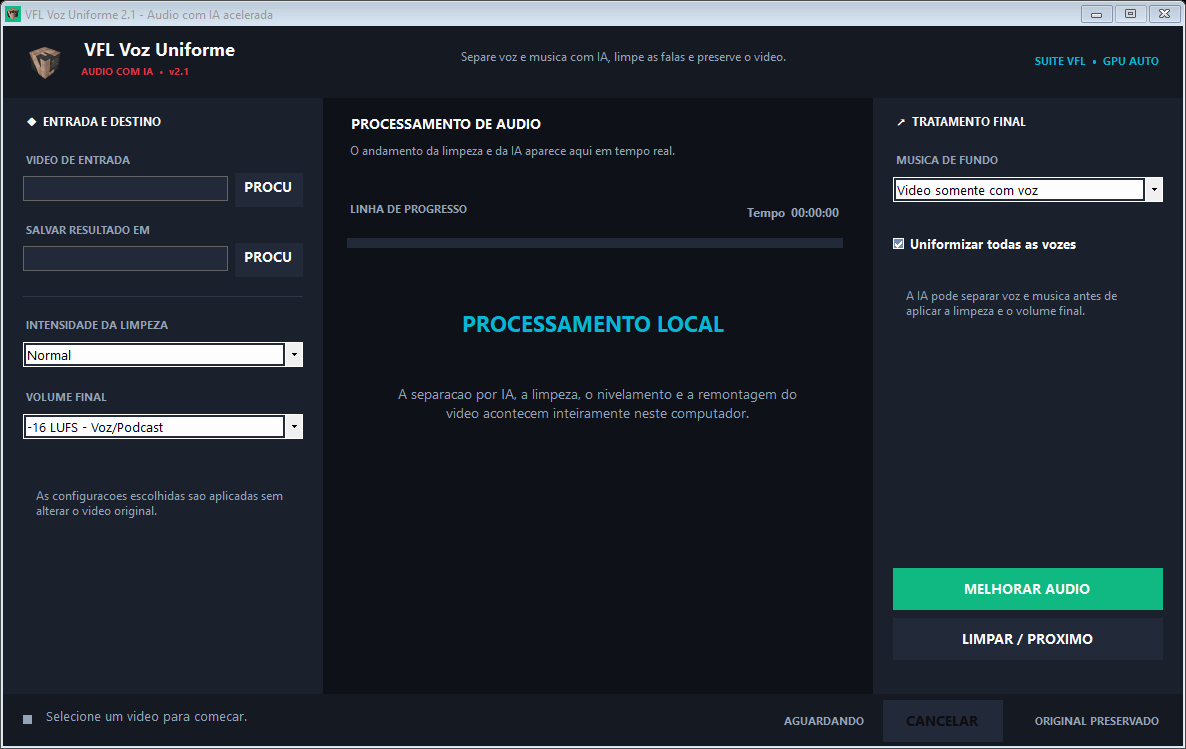
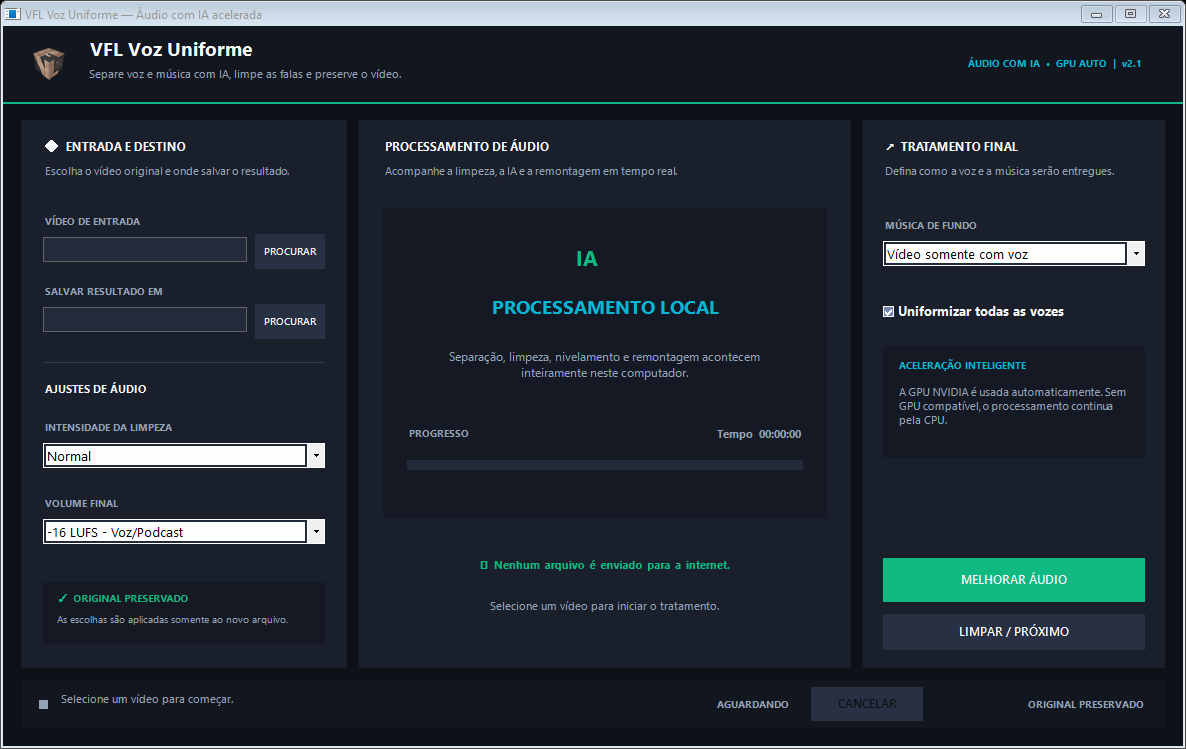
Padroniza interface do Voz Uniforme com a suite VFL

diff --git a/src/VozUniforme.cs b/src/VozUniforme.cs
@@ -40,15 +40,18 @@ namespace VozUniformeApp
     internal sealed class MainForm : Form
     {
         private readonly Color colorWindow = Color.FromArgb(14, 17, 23);
-        private readonly Color colorHeader = Color.FromArgb(21, 25, 34);
-        private readonly Color colorCard = Color.FromArgb(26, 32, 44);
-        private readonly Color colorInput = Color.FromArgb(34, 41, 56);
-        private readonly Color colorSecondary = Color.FromArgb(34, 41, 56);
-        private readonly Color colorBorder = Color.FromArgb(45, 55, 72);
+        private readonly Color colorHeader = Color.FromArgb(18, 22, 30);
+        private readonly Color colorCard = Color.FromArgb(25, 31, 43);
+        private readonly Color colorSurface = Color.FromArgb(20, 25, 35);
+        private readonly Color colorInput = Color.FromArgb(35, 43, 59);
+        private readonly Color colorSecondary = Color.FromArgb(40, 49, 67);
+        private readonly Color colorBorder = Color.FromArgb(48, 59, 78);
         private readonly Color colorText = Color.FromArgb(248, 250, 252);
         private readonly Color colorMuted = Color.FromArgb(148, 163, 184);
-        private readonly Color colorAccent = Color.FromArgb(226, 50, 68);
+        private readonly Color colorAccent = Color.FromArgb(16, 185, 129);
+        private readonly Color colorCyan = Color.FromArgb(6, 182, 212);
         private readonly Color colorGreen = Color.FromArgb(16, 185, 129);
+        private readonly Color colorDanger = Color.FromArgb(239, 68, 68);
         private readonly Color colorOrange = Color.FromArgb(245, 166, 35);
 
         private readonly string projectDir;
@@ -107,7 +110,7 @@ namespace VozUniformeApp
 
         private void BuildInterface()
         {
-            Text = "VFL Voz Uniforme 2.1 - Audio com IA acelerada";
+            Text = "VFL Voz Uniforme — Áudio com IA acelerada";
             try { Icon = Icon.ExtractAssociatedIcon(Application.ExecutablePath); } catch { }
             ClientSize = new Size(1180, 720);
             FormBorderStyle = FormBorderStyle.FixedSingle;
@@ -118,64 +121,79 @@ namespace VozUniformeApp
             ForeColor = colorText;
             Font = new Font("Segoe UI", 10f);
 
-            Panel header = new Panel { Location = new Point(0, 0), Size = new Size(1180, 72), BackColor = colorHeader };
+            Panel header = new Panel { Location = new Point(0, 0), Size = new Size(1180, 78), BackColor = colorHeader };
             Controls.Add(header);
             string logoPath = Path.Combine(projectDir, "assets", "vfl-suite-logo.png");
             if (File.Exists(logoPath))
-                header.Controls.Add(new PictureBox { Location = new Point(18, 10), Size = new Size(48, 52), Image = Image.FromFile(logoPath), SizeMode = PictureBoxSizeMode.Zoom });
+                header.Controls.Add(new PictureBox { Location = new Point(22, 13), Size = new Size(48, 48), Image = Image.FromFile(logoPath), SizeMode = PictureBoxSizeMode.Zoom });
             else
             {
-                Panel logo = new Panel { Location = new Point(18, 10), Size = new Size(48, 52), BackColor = colorAccent };
+                Panel logo = new Panel { Location = new Point(22, 13), Size = new Size(48, 48), BackColor = colorAccent };
                 logo.Controls.Add(new Label { Text = "V", Font = new Font("Segoe UI", 15f, FontStyle.Bold), ForeColor = Color.White, TextAlign = ContentAlignment.MiddleCenter, Dock = DockStyle.Fill });
+                RoundControl(logo, 8);
                 header.Controls.Add(logo);
             }
-            header.Controls.Add(MakeLabel("VFL Voz Uniforme", new Point(76, 10), new Size(360, 30), colorText, 13f, FontStyle.Bold));
-            header.Controls.Add(MakeLabel("AUDIO COM IA  •  v2.1", new Point(76, 39), new Size(250, 19), colorAccent, 7f, FontStyle.Bold));
-            header.Controls.Add(MakeLabel("Separe voz e musica com IA, limpe as falas e preserve o video.", new Point(455, 23), new Size(500, 25), colorMuted, 9f, FontStyle.Regular));
-            Label version = MakeLabel("SUITE VFL  •  GPU AUTO", new Point(980, 22), new Size(180, 25), Color.FromArgb(6, 182, 212), 8f, FontStyle.Bold);
+            header.Controls.Add(MakeLabel("VFL Voz Uniforme", new Point(84, 10), new Size(430, 30), colorText, 14f, FontStyle.Bold));
+            header.Controls.Add(MakeLabel("Separe voz e música com IA, limpe as falas e preserve o vídeo.", new Point(84, 40), new Size(650, 22), colorMuted, 8.5f, FontStyle.Regular));
+            Label version = MakeLabel("ÁUDIO COM IA  •  GPU AUTO  |  v2.1", new Point(850, 25), new Size(290, 24), colorCyan, 7.5f, FontStyle.Bold);
             version.TextAlign = ContentAlignment.MiddleRight;
             header.Controls.Add(version);
+            header.Controls.Add(new Panel { Location = new Point(0, 76), Size = new Size(1180, 2), BackColor = colorAccent });
 
-            Panel left = new Panel { Location = new Point(0, 72), Size = new Size(320, 596), BackColor = colorCard };
+            Panel left = MakeCard(new Rectangle(18, 94, 326, 548));
             Controls.Add(left);
-            left.Controls.Add(MakeLabel("◆  ENTRADA E DESTINO", new Point(20, 16), new Size(270, 24), colorText, 9f, FontStyle.Bold));
-            left.Controls.Add(MakeLabel("VIDEO DE ENTRADA", new Point(20, 55), new Size(270, 20), colorMuted, 8f, FontStyle.Bold));
-            inputBox = new TextBox { Location = new Point(20, 78), Size = new Size(205, 28), BackColor = colorInput, ForeColor = colorText, BorderStyle = BorderStyle.FixedSingle };
+            left.Controls.Add(MakeLabel("◆  ENTRADA E DESTINO", new Point(22, 18), new Size(280, 24), colorText, 9f, FontStyle.Bold));
+            left.Controls.Add(MakeLabel("Escolha o vídeo original e onde salvar o resultado.", new Point(22, 44), new Size(280, 34), colorMuted, 8f, FontStyle.Regular));
+            left.Controls.Add(MakeLabel("VÍDEO DE ENTRADA", new Point(22, 94), new Size(280, 20), colorMuted, 7.5f, FontStyle.Bold));
+            inputBox = new TextBox { Location = new Point(22, 117), Size = new Size(204, 29), BackColor = colorInput, ForeColor = colorText, BorderStyle = BorderStyle.FixedSingle };
             RoundControl(inputBox, 6);
-            inputButton = MakeButton("PROCURAR", new Point(232, 75), 68, colorSecondary); inputButton.Height = 34; left.Controls.Add(inputBox); left.Controls.Add(inputButton);
-            left.Controls.Add(MakeLabel("SALVAR RESULTADO EM", new Point(20, 125), new Size(270, 20), colorMuted, 8f, FontStyle.Bold));
-            outputBox = new TextBox { Location = new Point(20, 148), Size = new Size(205, 28), BackColor = colorInput, ForeColor = colorText, BorderStyle = BorderStyle.FixedSingle };
+            inputButton = MakeButton("PROCURAR", new Point(234, 114), 70, colorSecondary); inputButton.Height = 35; inputButton.Font = new Font("Segoe UI Semibold", 7.5f); left.Controls.Add(inputBox); left.Controls.Add(inputButton);
+            left.Controls.Add(MakeLabel("SALVAR RESULTADO EM", new Point(22, 164), new Size(280, 20), colorMuted, 7.5f, FontStyle.Bold));
+            outputBox = new TextBox { Location = new Point(22, 187), Size = new Size(204, 29), BackColor = colorInput, ForeColor = colorText, BorderStyle = BorderStyle.FixedSingle };
             RoundControl(outputBox, 6);
-            outputButton = MakeButton("PROCURAR", new Point(232, 145), 68, colorSecondary); outputButton.Height = 34; left.Controls.Add(outputBox); left.Controls.Add(outputButton);
-            left.Controls.Add(new Panel { Location = new Point(20, 198), Size = new Size(280, 1), BackColor = colorBorder });
-            left.Controls.Add(MakeLabel("INTENSIDADE DA LIMPEZA", new Point(20, 220), new Size(280, 20), colorMuted, 8f, FontStyle.Bold));
-            profileBox = MakeCombo(new Point(20, 244), new Size(280, 30), new[] { "Leve", "Normal", "Forte" }, 1); left.Controls.Add(profileBox);
-            left.Controls.Add(MakeLabel("VOLUME FINAL", new Point(20, 292), new Size(280, 20), colorMuted, 8f, FontStyle.Bold));
-            lufsBox = MakeCombo(new Point(20, 316), new Size(280, 30), new[] { "-14 LUFS - YouTube", "-16 LUFS - Voz/Podcast", "-18 LUFS - Suave" }, 1); left.Controls.Add(lufsBox);
-            left.Controls.Add(MakeLabel("As configuracoes escolhidas sao aplicadas sem alterar o video original.", new Point(30, 390), new Size(260, 80), colorMuted, 8.5f, FontStyle.Regular));
+            outputButton = MakeButton("PROCURAR", new Point(234, 184), 70, colorSecondary); outputButton.Height = 35; outputButton.Font = new Font("Segoe UI Semibold", 7.5f); left.Controls.Add(outputBox); left.Controls.Add(outputButton);
+            left.Controls.Add(new Panel { Location = new Point(22, 242), Size = new Size(282, 1), BackColor = colorBorder });
+            left.Controls.Add(MakeLabel("AJUSTES DE ÁUDIO", new Point(22, 262), new Size(280, 20), colorText, 8f, FontStyle.Bold));
+            left.Controls.Add(MakeLabel("INTENSIDADE DA LIMPEZA", new Point(22, 300), new Size(280, 20), colorMuted, 7.5f, FontStyle.Bold));
+            profileBox = MakeCombo(new Point(22, 323), new Size(282, 31), new[] { "Leve", "Normal", "Forte" }, 1); left.Controls.Add(profileBox);
+            left.Controls.Add(MakeLabel("VOLUME FINAL", new Point(22, 376), new Size(280, 20), colorMuted, 7.5f, FontStyle.Bold));
+            lufsBox = MakeCombo(new Point(22, 399), new Size(282, 31), new[] { "-14 LUFS - YouTube", "-16 LUFS - Voz/Podcast", "-18 LUFS - Suave" }, 1); left.Controls.Add(lufsBox);
+            Panel safeNote = new Panel { Location = new Point(22, 462), Size = new Size(282, 62), BackColor = colorSurface };
+            RoundControl(safeNote, 10);
+            safeNote.Controls.Add(MakeLabel("✓  ORIGINAL PRESERVADO", new Point(12, 9), new Size(255, 18), colorGreen, 7.5f, FontStyle.Bold));
+            safeNote.Controls.Add(MakeLabel("As escolhas são aplicadas somente ao novo arquivo.", new Point(12, 30), new Size(255, 24), colorMuted, 7.5f, FontStyle.Regular));
+            left.Controls.Add(safeNote);
 
-            Panel center = new Panel { Location = new Point(320, 72), Size = new Size(550, 596), BackColor = colorWindow };
+            Panel center = MakeCard(new Rectangle(356, 94, 492, 548));
             Controls.Add(center);
-            center.Controls.Add(MakeLabel("PROCESSAMENTO DE AUDIO", new Point(24, 16), new Size(300, 24), colorText, 10f, FontStyle.Bold));
-            center.Controls.Add(MakeLabel("O andamento da limpeza e da IA aparece aqui em tempo real.", new Point(24, 45), new Size(490, 24), colorMuted, 8.5f, FontStyle.Regular));
-            timeLabel = MakeLabel("Tempo  00:00:00", new Point(300, 102), new Size(220, 25), colorMuted, 9f, FontStyle.Bold); timeLabel.TextAlign = ContentAlignment.MiddleRight; center.Controls.Add(timeLabel);
-            center.Controls.Add(MakeLabel("LINHA DE PROGRESSO", new Point(24, 104), new Size(220, 22), colorMuted, 8f, FontStyle.Bold));
-            progressTrack = new Panel { Location = new Point(24, 140), Size = new Size(496, 10), BackColor = colorInput };
+            center.Controls.Add(MakeLabel("PROCESSAMENTO DE ÁUDIO", new Point(24, 18), new Size(300, 24), colorText, 9f, FontStyle.Bold));
+            center.Controls.Add(MakeLabel("Acompanhe a limpeza, a IA e a remontagem em tempo real.", new Point(24, 44), new Size(440, 24), colorMuted, 8f, FontStyle.Regular));
+            Panel stage = new Panel { Location = new Point(24, 88), Size = new Size(444, 310), BackColor = colorSurface };
+            RoundControl(stage, 14);
+            stage.Controls.Add(MakeLabel("IA", new Point(189, 34), new Size(66, 28), colorAccent, 16f, FontStyle.Bold));
+            Label centerMessage = MakeLabel("PROCESSAMENTO LOCAL", new Point(40, 82), new Size(364, 36), colorCyan, 14f, FontStyle.Bold); centerMessage.TextAlign = ContentAlignment.MiddleCenter; stage.Controls.Add(centerMessage);
+            Label centerHelp = MakeLabel("Separação, limpeza, nivelamento e remontagem acontecem inteiramente neste computador.", new Point(54, 126), new Size(336, 62), colorMuted, 9f, FontStyle.Regular); centerHelp.TextAlign = ContentAlignment.MiddleCenter; stage.Controls.Add(centerHelp);
+            stage.Controls.Add(MakeLabel("PROGRESSO", new Point(24, 218), new Size(130, 20), colorMuted, 7.5f, FontStyle.Bold));
+            timeLabel = MakeLabel("Tempo  00:00:00", new Point(210, 214), new Size(210, 24), colorMuted, 8.5f, FontStyle.Bold); timeLabel.TextAlign = ContentAlignment.MiddleRight; stage.Controls.Add(timeLabel);
+            progressTrack = new Panel { Location = new Point(24, 252), Size = new Size(396, 10), BackColor = colorInput };
             progressFill = new Panel { Location = new Point(0, 0), Size = new Size(0, 10), BackColor = colorGreen }; progressTrack.Controls.Add(progressFill); center.Controls.Add(progressTrack);
             RoundControl(progressTrack, 5);
-            Label centerMessage = MakeLabel("PROCESSAMENTO LOCAL", new Point(24, 205), new Size(496, 40), Color.FromArgb(6, 182, 212), 16f, FontStyle.Bold); centerMessage.TextAlign = ContentAlignment.MiddleCenter; center.Controls.Add(centerMessage);
-            Label centerHelp = MakeLabel("A separacao por IA, a limpeza, o nivelamento e a remontagem do video acontecem inteiramente neste computador.", new Point(70, 260), new Size(410, 90), colorMuted, 10f, FontStyle.Regular); centerHelp.TextAlign = ContentAlignment.MiddleCenter; center.Controls.Add(centerHelp);
+            stage.Controls.Add(progressTrack);
+            center.Controls.Add(stage);
+            Label privacy = MakeLabel("🔒  Nenhum arquivo é enviado para a internet.", new Point(24, 430), new Size(444, 30), colorGreen, 8.5f, FontStyle.Bold); privacy.TextAlign = ContentAlignment.MiddleCenter; center.Controls.Add(privacy);
+            Label ready = MakeLabel("Selecione um vídeo para iniciar o tratamento.", new Point(24, 468), new Size(444, 36), colorMuted, 8.5f, FontStyle.Regular); ready.TextAlign = ContentAlignment.MiddleCenter; center.Controls.Add(ready);
 
-            Panel right = new Panel { Location = new Point(870, 72), Size = new Size(310, 596), BackColor = colorCard };
+            Panel right = MakeCard(new Rectangle(860, 94, 302, 548));
             Controls.Add(right);
-            right.Controls.Add(MakeLabel("↗  TRATAMENTO FINAL", new Point(20, 16), new Size(270, 24), colorText, 9f, FontStyle.Bold));
-            right.Controls.Add(MakeLabel("MUSICA DE FUNDO", new Point(20, 55), new Size(270, 20), colorMuted, 8f, FontStyle.Bold));
-            musicModeBox = MakeCombo(new Point(20, 79), new Size(270, 30), new[]
+            right.Controls.Add(MakeLabel("↗  TRATAMENTO FINAL", new Point(20, 18), new Size(262, 24), colorText, 9f, FontStyle.Bold));
+            right.Controls.Add(MakeLabel("Defina como a voz e a música serão entregues.", new Point(20, 44), new Size(262, 36), colorMuted, 8f, FontStyle.Regular));
+            right.Controls.Add(MakeLabel("MÚSICA DE FUNDO", new Point(20, 98), new Size(262, 20), colorMuted, 7.5f, FontStyle.Bold));
+            musicModeBox = MakeCombo(new Point(20, 121), new Size(262, 31), new[]
             {
-                "Video somente com voz",
-                "Manter musica (suave)",
-                "Deixar musica baixa - IA",
-                "Remover musica - IA"
+                "Vídeo somente com voz",
+                "Manter música (suave)",
+                "Deixar música baixa — IA",
+                "Remover música — IA"
             }, 0);
             musicModeBox.SelectedIndexChanged += delegate
             {
@@ -189,8 +207,8 @@ namespace VozUniformeApp
             uniformBox = new CheckBox
             {
                 Text = "Uniformizar todas as vozes",
-                Location = new Point(20, 132),
-                Size = new Size(270, 28),
+                Location = new Point(20, 178),
+                Size = new Size(262, 28),
                 Checked = true,
                 BackColor = colorCard,
                 ForeColor = colorText,
@@ -200,16 +218,20 @@ namespace VozUniformeApp
             };
             uniformBox.FlatAppearance.CheckedBackColor = colorAccent;
             right.Controls.Add(uniformBox);
-            right.Controls.Add(MakeLabel("A IA pode separar voz e musica antes de aplicar a limpeza e o volume final.", new Point(30, 190), new Size(250, 90), colorMuted, 8.5f, FontStyle.Regular));
-            startButton = MakeButton("MELHORAR AUDIO", new Point(20, 470), 270, colorGreen); right.Controls.Add(startButton);
-            clearButton = MakeButton("LIMPAR / PROXIMO", new Point(20, 520), 270, colorSecondary); right.Controls.Add(clearButton);
+            Panel aiNote = new Panel { Location = new Point(20, 226), Size = new Size(262, 112), BackColor = colorSurface };
+            RoundControl(aiNote, 10);
+            aiNote.Controls.Add(MakeLabel("ACELERAÇÃO INTELIGENTE", new Point(14, 12), new Size(234, 20), colorCyan, 7.5f, FontStyle.Bold));
+            aiNote.Controls.Add(MakeLabel("A GPU NVIDIA é usada automaticamente. Sem GPU compatível, o processamento continua pela CPU.", new Point(14, 38), new Size(234, 62), colorMuted, 8f, FontStyle.Regular));
+            right.Controls.Add(aiNote);
+            startButton = MakeButton("MELHORAR ÁUDIO", new Point(20, 438), 262, colorGreen); startButton.Height = 44; right.Controls.Add(startButton);
+            clearButton = MakeButton("LIMPAR / PRÓXIMO", new Point(20, 494), 262, colorSecondary); clearButton.Height = 36; right.Controls.Add(clearButton);
 
-            Panel footer = new Panel { Location = new Point(0, 668), Size = new Size(1180, 52), BackColor = colorHeader }; Controls.Add(footer);
-            statusDot = new Panel { Location = new Point(20, 21), Size = new Size(9, 9), BackColor = colorMuted }; footer.Controls.Add(statusDot);
-            statusLabel = MakeLabel("Selecione um video para comecar.", new Point(40, 13), new Size(690, 27), colorMuted, 9.5f, FontStyle.Regular); footer.Controls.Add(statusLabel);
-            statusBadge = MakeLabel("AGUARDANDO", new Point(735, 13), new Size(130, 27), colorMuted, 8f, FontStyle.Bold); statusBadge.TextAlign = ContentAlignment.MiddleRight; footer.Controls.Add(statusBadge);
-            cancelButton = MakeButton("CANCELAR", new Point(880, 6), 120, colorSecondary); cancelButton.Enabled = false; footer.Controls.Add(cancelButton);
-            Label original = MakeLabel("ORIGINAL PRESERVADO", new Point(1010, 13), new Size(150, 27), colorMuted, 8f, FontStyle.Bold); original.TextAlign = ContentAlignment.MiddleRight; footer.Controls.Add(original);
+            Panel footer = new Panel { Location = new Point(18, 654), Size = new Size(1144, 48), BackColor = colorHeader }; RoundControl(footer, 10); Controls.Add(footer);
+            statusDot = new Panel { Location = new Point(18, 20), Size = new Size(9, 9), BackColor = colorMuted }; RoundControl(statusDot, 5); footer.Controls.Add(statusDot);
+            statusLabel = MakeLabel("Selecione um vídeo para começar.", new Point(38, 11), new Size(620, 27), colorMuted, 8.5f, FontStyle.Regular); footer.Controls.Add(statusLabel);
+            statusBadge = MakeLabel("AGUARDANDO", new Point(650, 11), new Size(120, 27), colorMuted, 7.5f, FontStyle.Bold); statusBadge.TextAlign = ContentAlignment.MiddleRight; footer.Controls.Add(statusBadge);
+            cancelButton = MakeButton("CANCELAR", new Point(790, 7), 112, colorSecondary); cancelButton.Height = 34; cancelButton.Enabled = false; footer.Controls.Add(cancelButton);
+            Label original = MakeLabel("ORIGINAL PRESERVADO", new Point(920, 11), new Size(205, 27), colorMuted, 7.5f, FontStyle.Bold); original.TextAlign = ContentAlignment.MiddleRight; footer.Controls.Add(original);
 
             inputButton.Click += SelectInput;
             outputButton.Click += SelectOutput;
@@ -227,6 +249,13 @@ namespace VozUniformeApp
             return new Label { Text = text, Location = location, Size = size, ForeColor = color, Font = new Font("Segoe UI", fontSize, style) };
         }
 
+        private Panel MakeCard(Rectangle bounds)
+        {
+            Panel card = new Panel { Bounds = bounds, BackColor = colorCard };
+            RoundControl(card, 12);
+            return card;
+        }
+
         private Button MakeButton(string text, Point location, int width, Color backColor)
         {
             Button button = new Button
@@ -238,7 +267,7 @@ namespace VozUniformeApp
                 ForeColor = colorText,
                 FlatStyle = FlatStyle.Flat,
                 Cursor = Cursors.Hand,
-                Font = new Font("Segoe UI", 10f, FontStyle.Bold)
+                Font = new Font("Segoe UI Semibold", 9f, FontStyle.Bold)
             };
             button.FlatAppearance.BorderSize = 0;
             RoundControl(button, 10);
@@ -715,7 +744,7 @@ namespace VozUniformeApp
             stopwatch = null;
             timeLabel.Text = "Tempo  00:00:00";
             SetProgress(0);
-            SetStatus("Selecione um video para comecar.", "Idle");
+            SetStatus("Selecione um vídeo para começar.", "Idle");
             inputBox.Focus();
         }
 
@@ -746,7 +775,7 @@ namespace VozUniformeApp
             if (state == "Ready") SetStatusColors(colorAccent, "PRONTO");
             else if (state == "Processing") SetStatusColors(colorOrange, "PROCESSANDO");
             else if (state == "Success") SetStatusColors(colorGreen, "CONCLUIDO");
-            else if (state == "Error") SetStatusColors(colorAccent, "ERRO");
+            else if (state == "Error") SetStatusColors(colorDanger, "ERRO");
             else if (state == "Cancel") SetStatusColors(colorOrange, "CANCELADO");
             else SetStatusColors(colorMuted, "AGUARDANDO");
         }

diff --git a/README.md b/README.md
@@ -32,6 +32,7 @@ Baixe o arquivo **`VFL_Voz_Uniforme_Portatil_v2.1_GPU.zip`** na página de [Rele
 
 ## Principais recursos
 
+- interface padronizada com a suíte VFL, cartões arredondados e identidade visual verde;
 - uniformiza falas baixas e altas;
 - reduz ruído contínuo e limpa frequências desnecessárias;
 - comprime a dinâmica, normaliza o volume em LUFS e limita picos;
